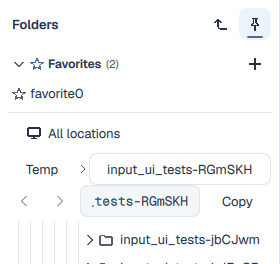
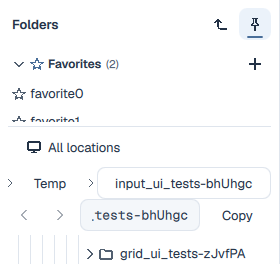
fix(EN-04): half-row peek for overflowing favorites, kept off the folder list's floor
Lead UX decision: when favorites exceed the visible rows, half of the next row peeks out; dropped when it would take the folder list below one row. favoritesSectionLeavesFolderListTheHeight asserts both, including the drop branch. Screenshots for 12 favorites; 2-favorite after shots recaptured and cropped to the panel top.

diff --git a/ui/FolderTree.qml b/ui/FolderTree.qml
@@ -273,7 +273,15 @@ Rectangle {
                 // Whole rows, at most 5 and at most a fifth of the panel (one row minimum); a longer list scrolls in place
                 // so the folder tree below keeps most of the height, including at the minimum window size.
                 readonly property int maxRows: Math.max(1, Math.min(5, Math.floor(panel.height / (5 * Theme.rowHeight))))
-                Layout.preferredHeight: panel.favoritesExpanded && (typeof favoritesModel !== "undefined" && favoritesModel.count > 0) ? Math.min(favoritesModel.count, maxRows) * Theme.rowHeight : 0
+                readonly property int favoriteCount: typeof favoritesModel !== "undefined" ? favoritesModel.count : 0
+                // When more favorites exist than fit, half of the next row peeks out so the overflow is visible at rest
+                // (the scroll bar only shows while scrolling or hovered). The peek is dropped rather than take the folder
+                // list below one row: the height this list shares with the folder list is the same with or without it.
+                readonly property real sharedHeight: list.height + height
+                readonly property bool peek: favoriteCount > maxRows
+                                             && sharedHeight - (maxRows + 0.5) * Theme.rowHeight >= Theme.rowHeight
+                Layout.preferredHeight: panel.favoritesExpanded && favoriteCount > 0
+                                        ? Math.min(favoriteCount, maxRows) * Theme.rowHeight + (peek ? Theme.rowHeight / 2 : 0) : 0
                 visible: panel.favoritesExpanded && (typeof favoritesModel !== "undefined" && favoritesModel.count > 0)
                 leftMargin: Theme.gapSm
                 rightMargin: Theme.gapSm

diff --git a/tests/input_ui_tests.cpp b/tests/input_ui_tests.cpp
@@ -1168,7 +1168,8 @@ private slots:
 
     // EN-04 review round 1 (FAVORITES-01 layout): the Favorites section sizes to its content, a long favorites list
     // scrolls inside its own capped section, and the folder list gets the remaining panel height. Before the fix the
-    // section stretched to share the spare height and left the folder list 4 px tall at 1180x780.
+    // section stretched to share the spare height and left the folder list 4 px tall at 1180x780. Round 2: an
+    // overflowing favorites list shows a half-row peek, dropped when it would take the folder list below one row.
     void favoritesSectionLeavesFolderListTheHeight() {
         Media media(1); Harness h; QVERIFY(h.window);
         QVERIFY(openFolder(h, media));
@@ -1202,7 +1203,7 @@ private slots:
         };
         if (qEnvironmentVariableIsSet("GLANCELOT_REVIEW_CAPTURE")) { // review evidence: the tree panel in both themes, before any check
             const QDir out(qEnvironmentVariable("GLANCELOT_REVIEW_CAPTURE")); QVERIFY(out.mkpath("."));
-            for (int count : {0, 2}) {
+            for (int count : {0, 2, 12}) {
                 QVERIFY(fill(count));
                 for (const QSize size : {QSize(1180, 780), QSize(540, 360)}) {
                     QVERIFY(settle(size, count));
@@ -1227,12 +1228,33 @@ private slots:
                     QVERIFY2(favoritesList->height() <= count * rowHeight + 0.5, qPrintable(at));
                     QVERIFY2(favoritesList->height() >= rowHeight - 0.5, qPrintable(at));
                     if (count == 12) QVERIFY2(favoritesList->property("contentHeight").toReal() > favoritesList->height() + 0.5, qPrintable(at));
+                    // Whole rows, plus a half-row peek exactly when more favorites exist than whole rows show.
+                    const int rows = int((favoritesList->height() + 0.5) / rowHeight);
+                    const qreal part = favoritesList->height() - rows * rowHeight;
+                    const bool peek = qAbs(part - rowHeight / 2) < 1;
+                    QVERIFY2(qAbs(part) < 1 || peek, qPrintable(at));
+                    const bool overflows = count > rows;
+                    QVERIFY2(!peek || overflows, qPrintable(at));
+                    if (!overflows) QVERIFY2(qAbs(favoritesList->height() - count * rowHeight) < 1, qPrintable(at));
+                    // Without a peek on an overflowing list, adding one would have taken the folder list below a row.
+                    if (overflows && !peek) QVERIFY2(list->height() - rowHeight / 2 < rowHeight, qPrintable(at));
+                    if (count == 12 && size.height() >= 780) QVERIFY2(peek, qPrintable(at));
                 }
                 // The folder list keeps most of the panel at the default size and at least one whole row at the minimum.
                 if (size.height() >= 780) QVERIFY2(list->height() >= 0.5 * tree->height(), qPrintable(at));
                 else QVERIFY2(list->height() >= rowHeight, qPrintable(at));
             }
         }
+        // Extra chrome at the minimum size (the address feedback line for a missing folder) leaves no room for the peek:
+        // it is dropped and the favorites list shows whole rows only.
+        QVERIFY(fill(12)); QVERIFY(settle(QSize(540, 360), 12));
+        h.viewer.navigateDirectory(places.filePath("missing"));
+        auto* feedback = named(h.window, "folderAddressFeedback"); QVERIFY(feedback);
+        QTRY_VERIFY(feedback->isVisible());
+        QTest::qWait(50);
+        const QString at = "with the address feedback line: " + measure(QSize(540, 360), 12);
+        QVERIFY2(qAbs(favoritesList->height() - rowHeight) < 1, qPrintable(at));
+        QVERIFY2(qAbs(section->height() - section->implicitHeight()) < 1, qPrintable(at));
     }
 
     // Menus stay inside a compact window; the tallest one scrolls instead of running off the edge.
